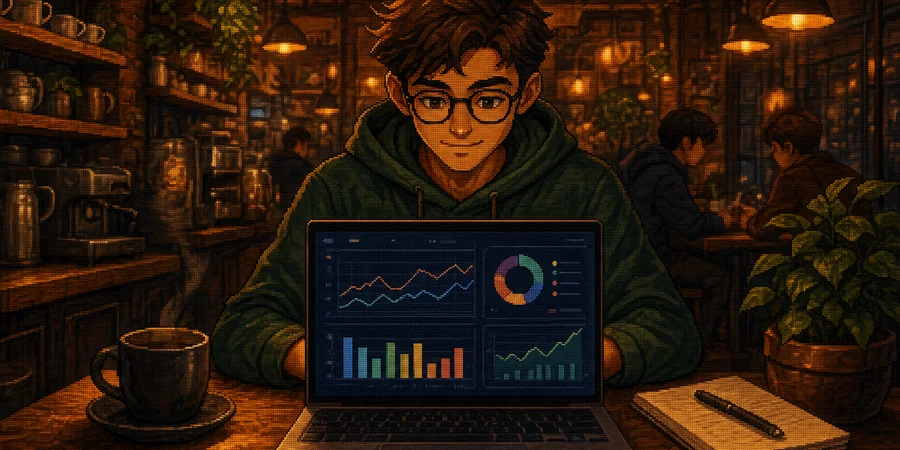
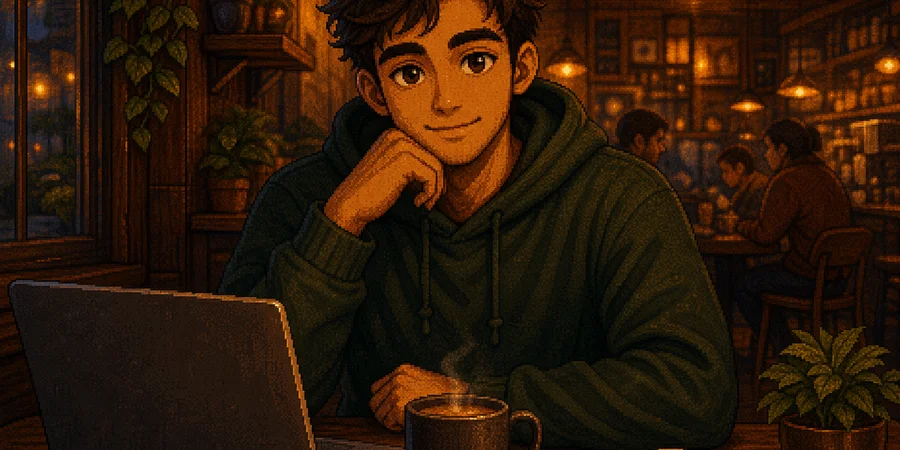
fix(images): natural laptop angles — remove screen-facing-viewer rule, zarplata-seo cover v4

diff --git a/scripts/content-factory/writer.compiled.js b/scripts/content-factory/writer.compiled.js
@@ -179,7 +179,7 @@ async function generateImageWithCodex(imagePrompt, slug, topicId) {
   const perspective = PERSPECTIVES[perspIdx]
   const gender = GENDERS[genderIdx]
   const setting = SETTINGS[settingIdx]
-  const fullPrompt = `Match the pixel art style of the attached reference image exactly: ultra-fine dense pixel grain (NOT blocky large pixels), bright warm cozy atmosphere (NOT dark, NOT muddy, NOT desaturated), rich amber, golden and soft cream tones throughout \u2014 warm inviting palette, single clear light source creating volumetric depth: bright highlights on lit surfaces and well-defined soft shadows for 3D volume, rich surface textures, smooth gradients via fine dithering, high pixel density giving a near-painterly look, calm lofi RPG mood, no watermark, no photorealism. MANDATORY CHARACTER GENDER: ${gender}. This is non-negotiable \u2014 do NOT change the gender. MANDATORY: include exactly 1 human person prominently in the foreground. CHARACTER ANGLE: ${perspective}. SETTING: ${setting}. BACKGROUND: rich with many objects and environmental details filling the scene \u2014 NO text or letters anywhere. LAPTOP/MONITOR RULE: if any laptop, computer or monitor appears in the scene, ALWAYS show it from the FRONT \u2014 the glowing screen side facing viewer. NEVER show the back of the lid. Any graphs, charts or UI elements must be VISIBLE on the front-facing display screen. SCENE CONTEXT (for props and mood only, gender and setting already set above): ${imagePrompt}. Generate this pixel art image now.`
+  const fullPrompt = `Match the pixel art style of the attached reference image exactly: ultra-fine dense pixel grain (NOT blocky large pixels), bright warm cozy atmosphere (NOT dark, NOT muddy, NOT desaturated), rich amber, golden and soft cream tones throughout \u2014 warm inviting palette, single clear light source creating volumetric depth: bright highlights on lit surfaces and well-defined soft shadows for 3D volume, rich surface textures, smooth gradients via fine dithering, high pixel density giving a near-painterly look, calm lofi RPG mood, no watermark, no photorealism. MANDATORY CHARACTER GENDER: ${gender}. This is non-negotiable \u2014 do NOT change the gender. MANDATORY: include exactly 1 human person prominently in the foreground. CHARACTER ANGLE: ${perspective}. SETTING: ${setting}. BACKGROUND: rich with many objects and environmental details filling the scene \u2014 NO text or letters anywhere. NATURALNESS RULE: the scene must look like a real photograph \u2014 people and objects at natural angles. If a laptop appears, show it at a natural working angle (lid slightly open, screen facing the person, back of lid facing viewer) \u2014 NEVER rotate it to show the screen towards the camera. Do NOT put any graphics, charts or images on the outside/back of the laptop lid. SCENE CONTEXT (for props and mood only, gender and setting already set above): ${imagePrompt}. Generate this pixel art image now.`
   const refArg = fs.existsSync(REFERENCE_IMAGE) ? ['-i', REFERENCE_IMAGE] : []
   const runCodex = () =>
     new Promise((resolve) => {
@@ -477,7 +477,7 @@ ${wordstatBlock}
   "dataGaps": ["\u043A\u0430\u043A\u0438\u0445 \u043A\u043E\u043D\u043A\u0440\u0435\u0442\u043D\u044B\u0445 \u0434\u0430\u043D\u043D\u044B\u0445 \u043D\u0435 \u0445\u0432\u0430\u0442\u0430\u0435\u0442 \u0434\u043B\u044F \u0444\u0430\u043A\u0442\u0443\u0440\u043D\u043E\u0433\u043E \u0442\u0435\u043A\u0441\u0442\u0430 1", "2"],
   "successCriteria": ["featured snippet \u043D\u0430 \u0437\u0430\u043F\u0440\u043E\u0441 X", "\u043C\u0438\u043D\u0438\u043C\u0443\u043C 3 \u0438\u0441\u0442\u043E\u0447\u043D\u0438\u043A\u0430 \u0441 \u0434\u0430\u043D\u043D\u044B\u043C\u0438", "CTA \u043D\u0430 /vacancies/..."],
   "tags": ["\u0442\u0435\u04331", "\u0442\u0435\u04332"],
-  "imagePrompt": "English scene description for pixel-art hero image. REQUIRED: 1 human character (choose male or female based on article topic) is the main subject. MANDATORY SETTING \u2014 use exactly this location: ${forcedSetting}. Describe what the character is doing, their clothing (casual or professional), and 2-3 specific objects related to the article topic placed in this setting. 2-3 sentences max. Do NOT specify camera angle. No text visible anywhere in the image.",
+  "imagePrompt": "English scene description for pixel-art hero image. REQUIRED: 1 human character (choose male or female based on article topic) is the main subject. MANDATORY SETTING \u2014 use exactly this location: ${forcedSetting}. Describe what the character is doing, their clothing (casual or professional), and 2-3 specific objects related to the article topic placed naturally in this setting. Keep all props at natural real-life angles \u2014 no forced or impossible orientations. If a laptop is present, describe it as a natural closed or slightly-open prop to the side, NOT as a screen showing content towards the camera. 2-3 sentences max. Do NOT specify camera angle. No text visible anywhere in the image.",
   "bertAnchors": ["\u0441\u043B\u043E\u0432\u043E1", "\u0441\u043B\u043E\u0432\u043E2", "\u0441\u043B\u043E\u0432\u043E3"],
   "bm25Context": ["\u0442\u0435\u043C\u0430\u0442\u0438\u0447\u0435\u0441\u043A\u043E\u0435 \u0441\u043B\u043E\u0432\u043E 1", "\u0442\u0435\u043C\u0430\u0442\u0438\u0447\u0435\u0441\u043A\u043E\u0435 \u0441\u043B\u043E\u0432\u043E 2", "\u0442\u0435\u043C\u0430\u0442\u0438\u0447\u0435\u0441\u043A\u043E\u0435 \u0441\u043B\u043E\u0432\u043E 3", "\u0442\u0435\u043C\u0430\u0442\u0438\u0447\u0435\u0441\u043A\u043E\u0435 \u0441\u043B\u043E\u0432\u043E 4", "\u0442\u0435\u043C\u0430\u0442\u0438\u0447\u0435\u0441\u043A\u043E\u0435 \u0441\u043B\u043E\u0432\u043E 5"],
   "antifakeMarkers": ["\u041C\u0438\u0444: [\u0444\u043E\u0440\u043C\u0443\u043B\u0438\u0440\u043E\u0432\u043A\u0430 \u043C\u0438\u0444\u0430] \u2014 \u0424\u0430\u043A\u0442: [\u043E\u043F\u0440\u043E\u0432\u0435\u0440\u0436\u0435\u043D\u0438\u0435 \u0441 \u0438\u0441\u0442\u043E\u0447\u043D\u0438\u043A\u043E\u043C]", "\u041C\u0438\u0444: ... \u2014 \u0424\u0430\u043A\u0442: ..."],

diff --git a/scripts/content-factory/writer.ts b/scripts/content-factory/writer.ts
@@ -236,7 +236,7 @@ async function generateImageWithCodex(
     `CHARACTER ANGLE: ${perspective}. ` +
     `SETTING: ${setting}. ` +
     `BACKGROUND: rich with many objects and environmental details filling the scene — NO text or letters anywhere. ` +
-    `LAPTOP/MONITOR RULE: if any laptop, computer or monitor appears in the scene, ALWAYS show it from the FRONT — the glowing screen side facing viewer. NEVER show the back of the lid. Any graphs, charts or UI elements must be VISIBLE on the front-facing display screen. ` +
+    `NATURALNESS RULE: the scene must look like a real photograph — people and objects at natural angles. If a laptop appears, show it at a natural working angle (lid slightly open, screen facing the person, back of lid facing viewer) — NEVER rotate it to show the screen towards the camera. Do NOT put any graphics, charts or images on the outside/back of the laptop lid. ` +
     `SCENE CONTEXT (for props and mood only, gender and setting already set above): ${imagePrompt}. ` +
     `Generate this pixel art image now.`
 
@@ -577,7 +577,7 @@ ${wordstatBlock}
   "dataGaps": ["каких конкретных данных не хватает для фактурного текста 1", "2"],
   "successCriteria": ["featured snippet на запрос X", "минимум 3 источника с данными", "CTA на /vacancies/..."],
   "tags": ["тег1", "тег2"],
-  "imagePrompt": "English scene description for pixel-art hero image. REQUIRED: 1 human character (choose male or female based on article topic) is the main subject. MANDATORY SETTING — use exactly this location: ${forcedSetting}. Describe what the character is doing, their clothing (casual or professional), and 2-3 specific objects related to the article topic placed in this setting. 2-3 sentences max. Do NOT specify camera angle. No text visible anywhere in the image.",
+  "imagePrompt": "English scene description for pixel-art hero image. REQUIRED: 1 human character (choose male or female based on article topic) is the main subject. MANDATORY SETTING — use exactly this location: ${forcedSetting}. Describe what the character is doing, their clothing (casual or professional), and 2-3 specific objects related to the article topic placed naturally in this setting. Keep all props at natural real-life angles — no forced or impossible orientations. If a laptop is present, describe it as a natural closed or slightly-open prop to the side, NOT as a screen showing content towards the camera. 2-3 sentences max. Do NOT specify camera angle. No text visible anywhere in the image.",
   "bertAnchors": ["слово1", "слово2", "слово3"],
   "bm25Context": ["тематическое слово 1", "тематическое слово 2", "тематическое слово 3", "тематическое слово 4", "тематическое слово 5"],
   "antifakeMarkers": ["Миф: [формулировка мифа] — Факт: [опровержение с источником]", "Миф: ... — Факт: ..."],
